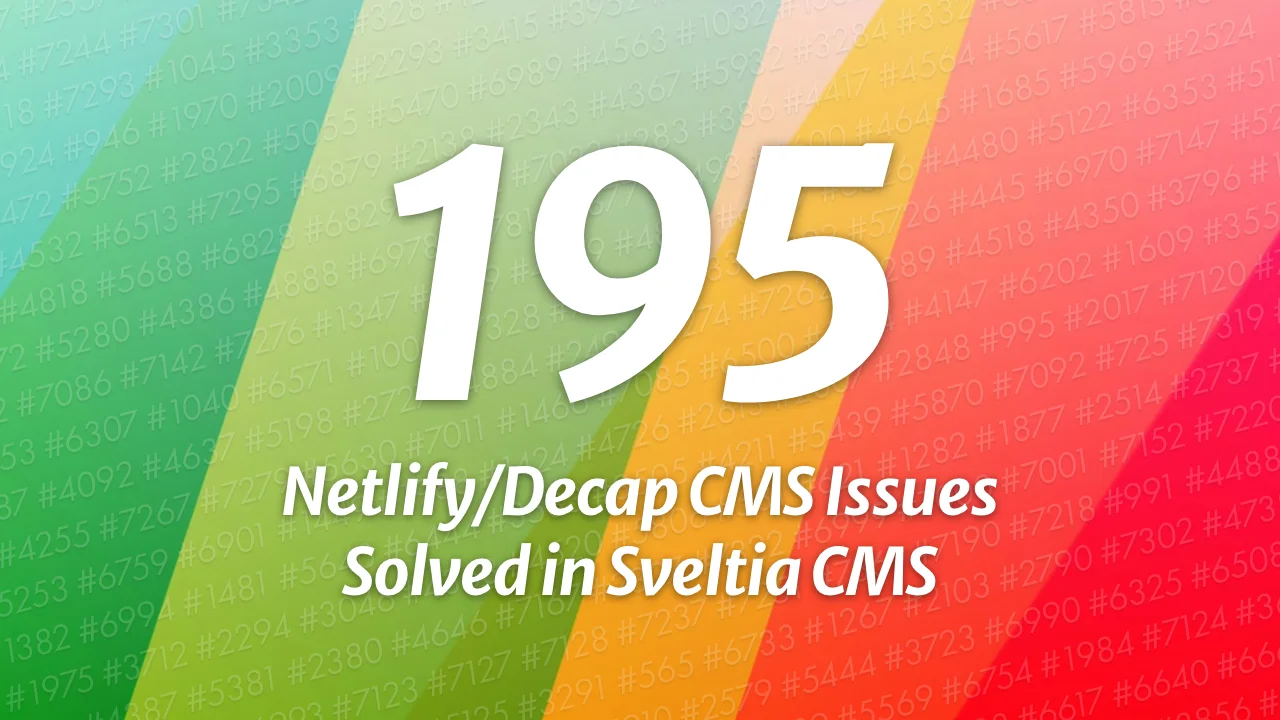
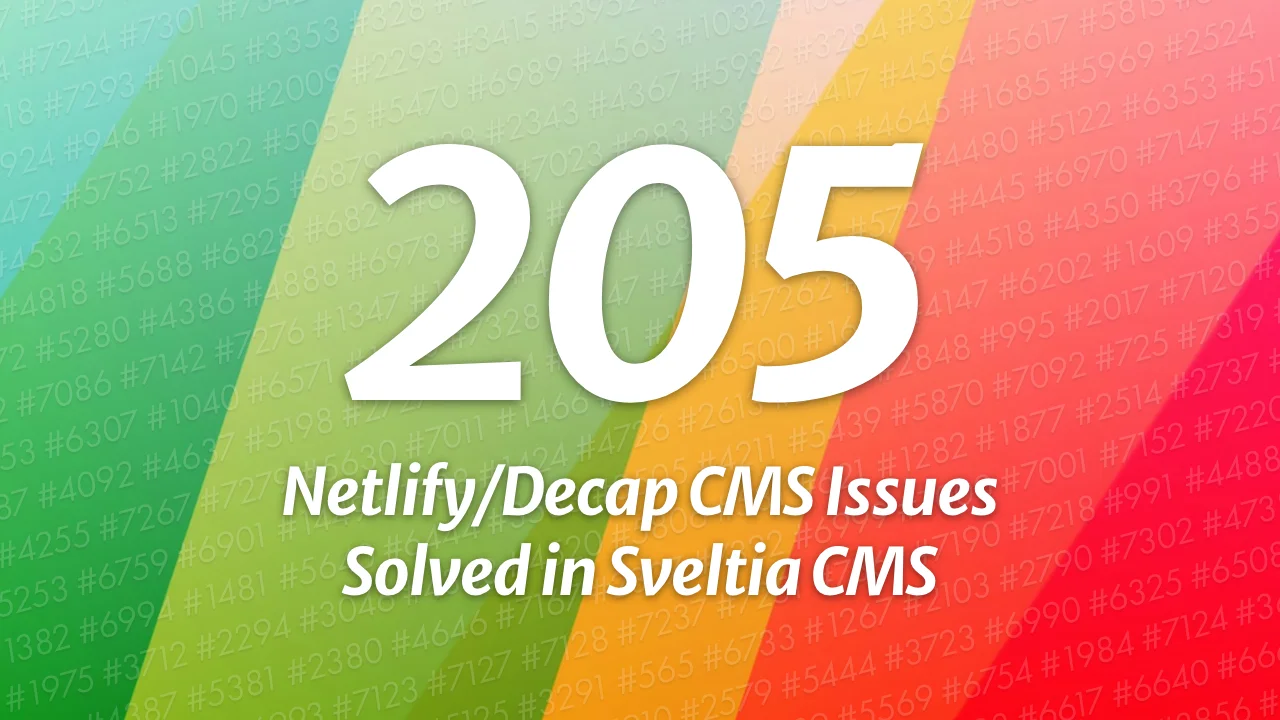
[skip ci] Update README.md

Changed region(s): [[0.25, 0.1833, 0.7188, 0.5806], [0.6875, 0.1833, 0.7188, 0.275]]

diff --git a/README.md b/README.md
@@ -129,9 +129,9 @@ While we fix reported bugs as quickly as possible, usually within 24 hours, our 
 - Ensuring substantial [compatibility with Netlify/Decap CMS](#compatibility)
 - Providing partial [compatibility with Static CMS](#compatibility-with-static-cms)
 - Tackling as many [Netlify/Decap CMS issues](https://github.com/decaporg/decap-cms/issues) as possible
-  - So far, 195+ issues, or 400+ if including duplicates, have been effectively solved in Sveltia CMS
+  - So far, 205+ issues, or 410+ if including duplicates, have been effectively solved in Sveltia CMS
   - Target:
-    - 200 issues, or 400 if including duplicates, by GA (almost there)
+    - 200 issues, or 400 if including duplicates, by GA (we did it!)
     - 350 issues, or 600 if including duplicates, in the future
   - Issues include everything from feature requests to bug reports and [issues closed as stale](https://github.com/decaporg/decap-cms/issues?q=is%3Aissue+%22Closing+as+stale%22) or without an effective solution, as well as [discussions](https://github.com/decaporg/decap-cms/discussions) and stalled [pull requests](https://github.com/decaporg/decap-cms/pulls)
   - Most of the bugs, including annoying crashes, are already solved
@@ -141,7 +141,7 @@ While we fix reported bugs as quickly as possible, usually within 24 hours, our 
 - Responding to requests from the maintainer’s clients
 - Making the code clean and maintainable
 
-![195 Netlify/Decap CMS issues solved in Sveltia CMS](https://raw.githubusercontent.com/sveltia/sveltia-cms/main/docs/headline-1.webp?20250426)<br>
+![205 Netlify/Decap CMS issues solved in Sveltia CMS](https://raw.githubusercontent.com/sveltia/sveltia-cms/main/docs/headline-1.webp?20250511)<br>
 
 ## Differentiators
 
@@ -152,13 +152,13 @@ Netlify/Decap CMS users will definitely be pleased and surprised by the numerous
 - Created and actively maintained by an [experienced UX engineer](https://github.com/kyoshino) who loves code, design and marketing. You can expect constant improvements to the user experience (UX) and developer experience (DX) across the platform.
 - The maintainer tries to respond to bug reports as quickly as possible. While there are no guarantees, the typical turnaround time for a bug fix is less than 24 hours.
 - Frequent releases deliver new features and enhancements to users faster. Most of our minor [releases](https://github.com/sveltia/sveltia-cms/releases) address one or more Netlify/Decap CMS issues, giving you even more reasons to switch from the legacy predecessor.
-- Offers a modern, intuitive user interface that utilizes the full viewport,[^178] inspired in part by the Netlify CMS v3 prototype.[^1]
+- Offers a modern, intuitive user interface that utilizes the full viewport,[^178] inspired in part by the Netlify CMS v3 prototype.[^1][^211][^212][^213][^214]
 - Provides immersive dark mode.[^2] The UI theme follows the user’s system preference by default and can be changed in the application settings.
-- Mobile and tablet support beyond responsive design: Users can manage content on-the-go.[^18] There are still rough edges though; we are working to fully optimize the app for small screens and touch devices.
+- Mobile and tablet support beyond responsive design: Users can easily manage content on-the-go.[^18] There are still rough edges though; we are working to fully optimize the app for small screens and touch devices.
   - If you’re already signed in on your desktop, open the Account menu in the top right corner of the CMS, click Sign In with Mobile, and scan the QR code for passwordless sign-in. Your settings will be automatically copied.
 - Made with [Svelte](https://svelte.dev/), not React, means we can spend more time on UX rather than tedious state management. It also allows us to avoid common fatal React application crashes.[^113][^129] Best of all, Svelte offers great performance.
 - Other crashes in Netlify/Decap CMS are also irrelevant to us, making Sveltia CMS much more stable.[^112][^203][^204]
-- We build [our own UI component library](https://github.com/sveltia/sveltia-ui), including custom dialogs,[^196] to ensure optimal usability without compromising accessibility.
+- We build [our own UI component library](https://github.com/sveltia/sveltia-ui), including custom dialogs, to ensure optimal usability without compromising accessibility.[^196][^205][^206][^207][^208][^209][^210]
 - Users can personalize the application with various settings, including appearance and language. Developer Mode can also be enabled.
 - Never miss out on the latest features and bug fixes by being notified when an update to the CMS is available.[^31] Then update to the latest version with a single click.[^66]
 <!-- - The in-app Help menu provides all links to useful resources, including release notes, feedback and support. -->
@@ -1734,7 +1734,7 @@ This software is provided “as is” without any express or implied warranty. W
 
 [^195]: Netlify/Decap CMS [#5901](https://github.com/decaporg/decap-cms/issues/5901)
 
-[^196]: Netlify/Decap CMS [#3057](https://github.com/decaporg/decap-cms/issues/3057) — We use Svelte though.
+[^196]: Netlify/Decap CMS [#3057](https://github.com/decaporg/decap-cms/issues/3057), [#3260](https://github.com/decaporg/decap-cms/issues/3260) — We use Svelte though.
 
 [^197]: Netlify/Decap CMS [#3457](https://github.com/decaporg/decap-cms/issues/3457), [#3624](https://github.com/decaporg/decap-cms/issues/3624)
 
@@ -1751,3 +1751,23 @@ This software is provided “as is” without any express or implied warranty. W
 [^203]: Netlify/Decap CMS [#7360](https://github.com/decaporg/decap-cms/issues/7360), [#7462](https://github.com/decaporg/decap-cms/issues/7462)
 
 [^204]: Netlify/Decap CMS [#7240](https://github.com/decaporg/decap-cms/issues/7240), [#7428](https://github.com/decaporg/decap-cms/issues/7428)
+
+[^205]: Netlify/Decap CMS [#3257](https://github.com/decaporg/decap-cms/issues/3257)
+
+[^206]: Netlify/Decap CMS [#3258](https://github.com/decaporg/decap-cms/issues/3258)
+
+[^207]: Netlify/Decap CMS [#3259](https://github.com/decaporg/decap-cms/issues/3259)
+
+[^208]: Netlify/Decap CMS [#3261](https://github.com/decaporg/decap-cms/issues/3261)
+
+[^209]: Netlify/Decap CMS [#3262](https://github.com/decaporg/decap-cms/issues/3262)
+
+[^210]: Netlify/Decap CMS [#3296](https://github.com/decaporg/decap-cms/issues/3296)
+
+[^211]: Netlify/Decap CMS [#3263](https://github.com/decaporg/decap-cms/issues/3263)
+
+[^212]: Netlify/Decap CMS [#3264](https://github.com/decaporg/decap-cms/issues/3264)
+
+[^213]: Netlify/Decap CMS [#3265](https://github.com/decaporg/decap-cms/issues/3265)
+
+[^214]: Netlify/Decap CMS [#3266](https://github.com/decaporg/decap-cms/issues/3266)
